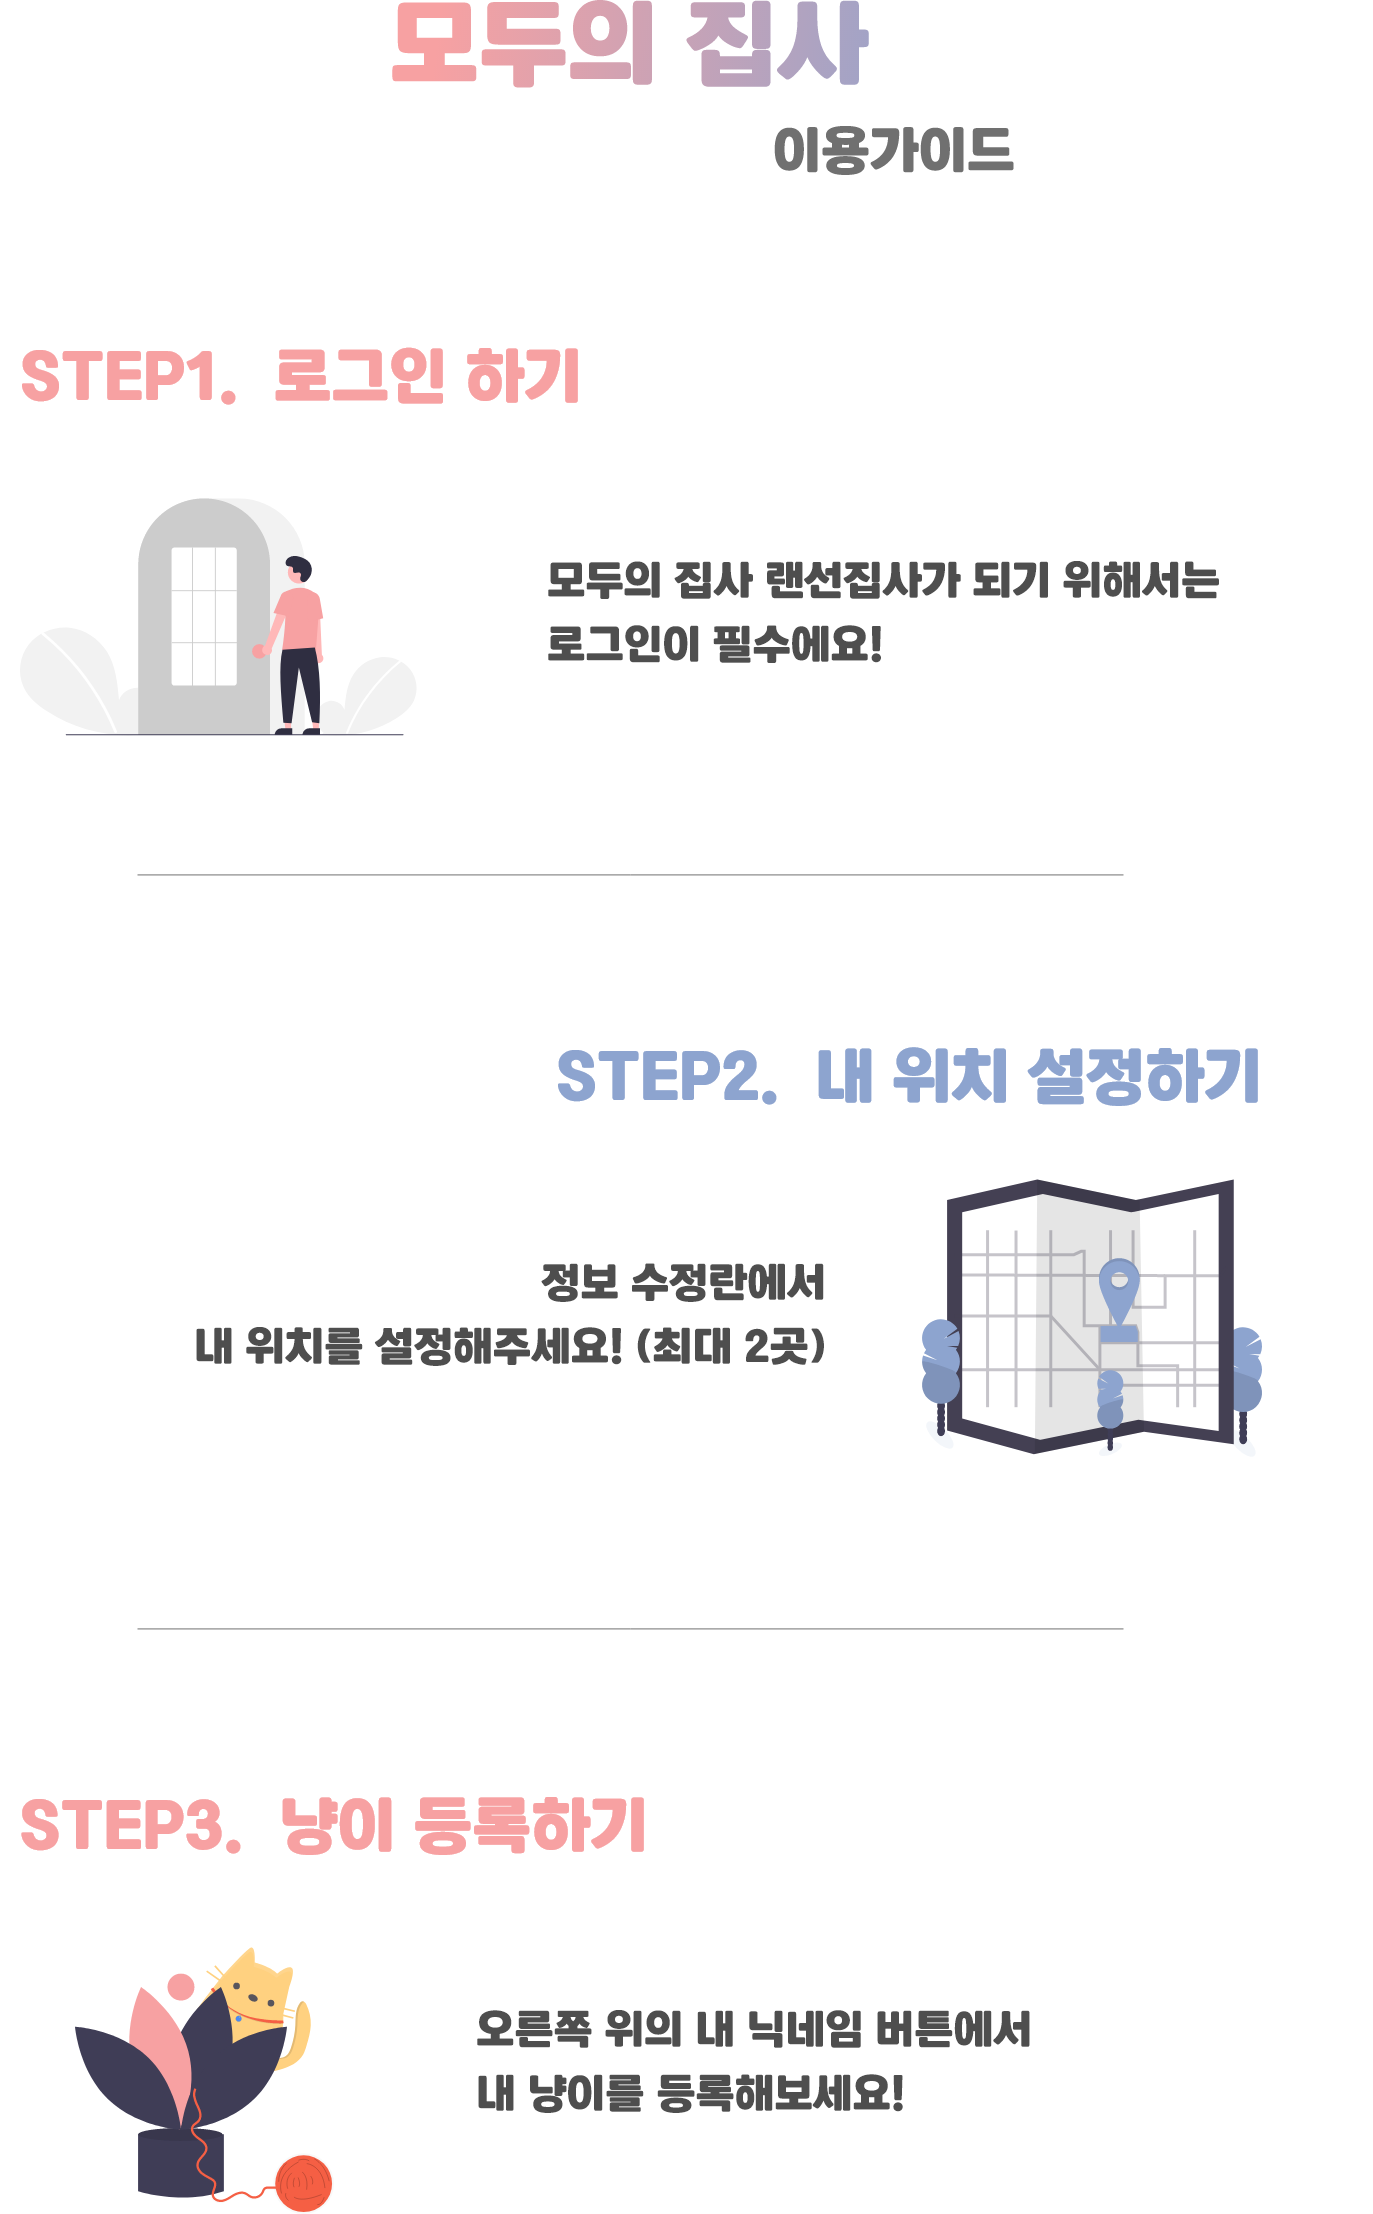
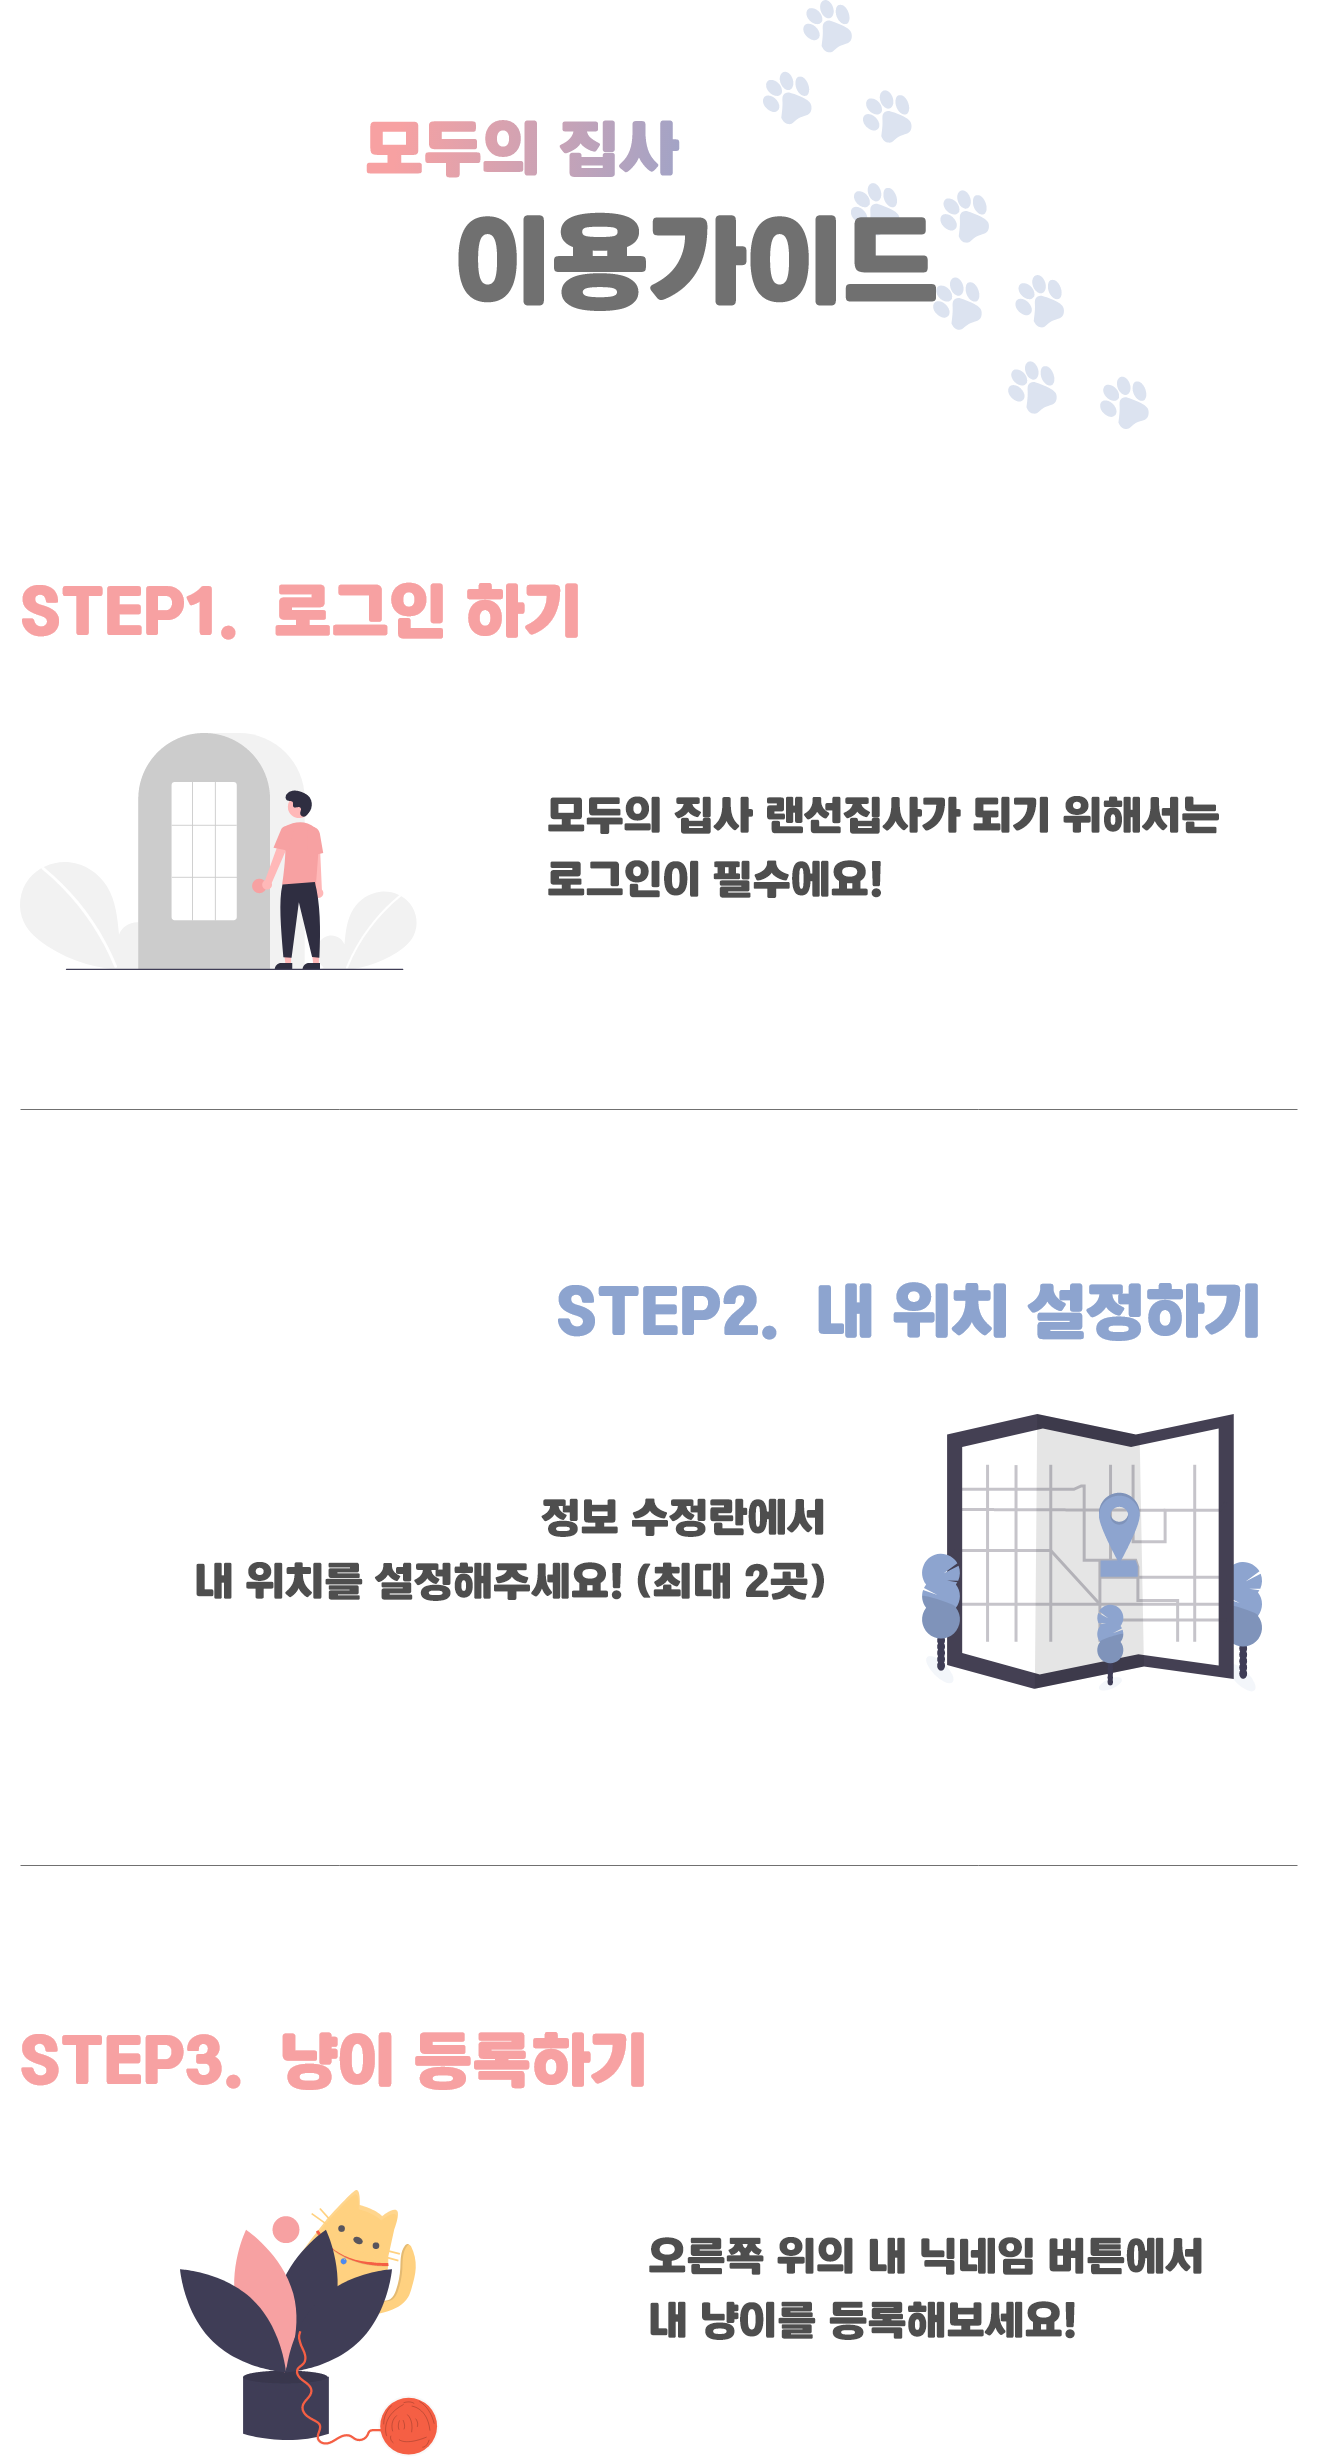
update guide test

diff --git a/frontend/src/components/Guide.jsx b/frontend/src/components/Guide.jsx
@@ -3,7 +3,7 @@ import React from "react";
 const Guide = () => {
     return(
         <div className="container">
-            <img style={{textAlign:'center', marginTop:'90px'}} src={require('../images/guide.png')} width='75%'/>
+            <img style={{textAlign:'center', marginTop:'90px'}} src={require('../images/guide2.png')} width='75%'/>
         </div>
     );
 };

diff --git a/frontend/src/components/MyNav.css b/frontend/src/components/MyNav.css
@@ -44,4 +44,8 @@
     color: #f6c9ca;
 }
 
+a.dropdown-item:active{
+    background-color: #8DA4CF;
+}
+
 
